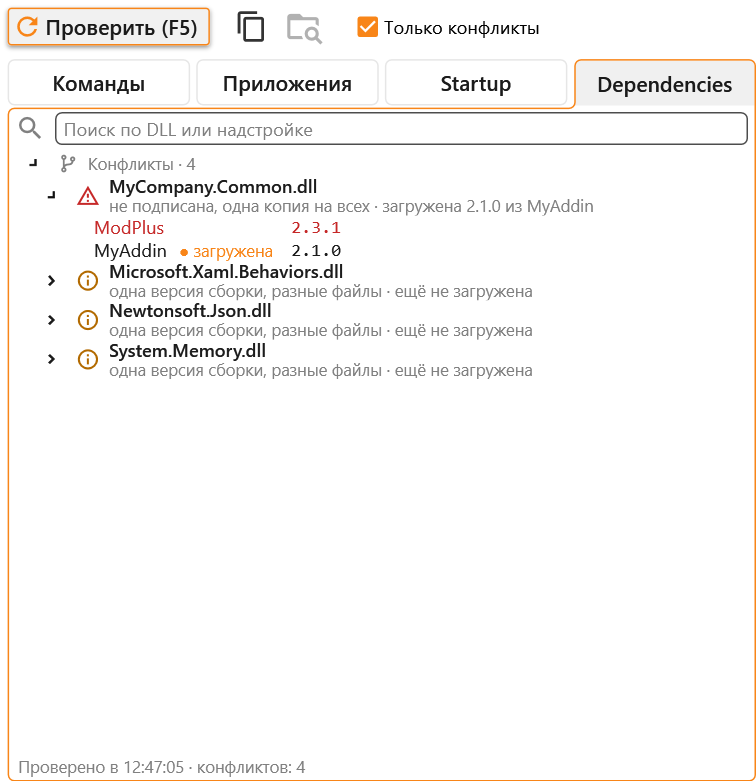
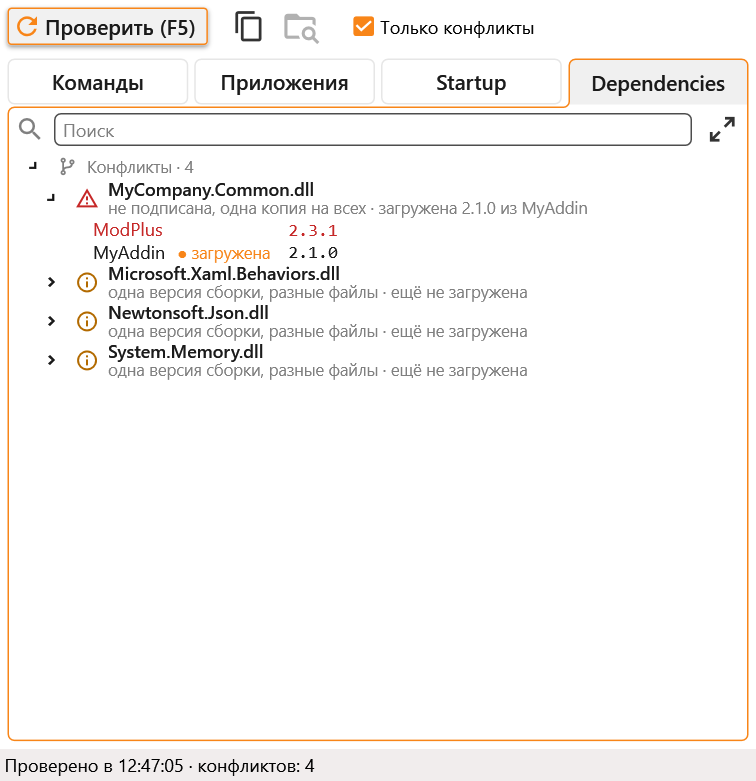
Rename DLL Runner to Add-in Explorer; Dependencies polish
The window does more than run DLLs now, so its ribbon button, tooltip,
title, the Run Again message and both READMEs call it Add-in Explorer.
The button's internal name comes from its command class, so shortcuts
users gave it still work.

Dependencies: a DLL's icon shows its worst add-in now, red only when one
gets an older version this session. The tab has a Свернуть всё button
and a plain «Поиск» hint, and a status bar like the Script Editor's: the
check on the left, short notes such as «Отчёт скопирован» on the right
for a few seconds. Opening the tab with a click no longer puts the focus
in the search box; the tree comes first in focus order, on Команды too.

diff --git a/source/UI/DllRunner/AssemblyRunnerWindow.xaml b/source/UI/DllRunner/AssemblyRunnerWindow.xaml
@@ -7,7 +7,7 @@
         xmlns:local="clr-namespace:RevitDevKit.UI.DllRunner"
         d:DataContext="{d:DesignInstance local:AssemblyRunnerVM}"
         mc:Ignorable="d"
-        Title="DLL Runner" WindowStartupLocation="CenterScreen"
+        Title="Add-in Explorer" WindowStartupLocation="CenterScreen"
         Height="720" Width="520" MinHeight="320" MinWidth="520">
 
     <Window.Resources>
@@ -228,12 +228,25 @@
                       ToolTip="Снимите, чтобы видеть и подписанные DLL, которые загрузятся рядом, и одинаковые у нескольких надстроек"/>
         </StackPanel>
 
+        <!-- Dependencies' status bar, as the Script Editor has one: the check on the left, the last action on the right. -->
+        <StackPanel DockPanel.Dock="Bottom" Style="{StaticResource DependenciesToolbar}">
+            <StatusBar>
+                <StatusBarItem DockPanel.Dock="Right">
+                    <TextBlock Text="{Binding Dependencies.Notice}"/>
+                </StatusBarItem>
+                <StatusBarItem>
+                    <TextBlock Text="{Binding Dependencies.Status}"/>
+                </StatusBarItem>
+            </StatusBar>
+        </StackPanel>
+
         <TabControl Margin="5 0 5 5" Style="{StaticResource FramedTabControl}" SelectedIndex="{Binding SelectedTabIndex}">
             <TabItem Header="Команды" Style="{StaticResource FramedTabItem}" HeaderTemplate="{StaticResource TabHeader}">
-                    <DockPanel>
+                    <!-- The tree comes first in focus order, as on Dependencies: a click on the tab does not land in the search box. -->
+                    <DockPanel KeyboardNavigation.TabNavigation="Local">
                         <DockPanel DockPanel.Dock="Top" Margin="4 2">
                             <Button DockPanel.Dock="Right" Width="25" Height="25" Margin="8 0 0 0" Padding="0" Command="{Binding CollapseAllCommand}"
-                                    Style="{StaticResource MaterialDesignFlatButton}" ToolTip="Свернуть всё">
+                                    Style="{StaticResource MaterialDesignFlatButton}" ToolTip="Свернуть всё" TabIndex="2">
                                 <materialDesign:PackIcon Kind="ArrowExpand" Width="22" Height="22" Foreground="{StaticResource IconBrush}"/>
                             </Button>
 
@@ -241,12 +254,12 @@
                                                      VerticalAlignment="Center" Margin="0 0 6 0"/>
 
                             <TextBox Text="{Binding SearchText, UpdateSourceTrigger=PropertyChanged}" VerticalAlignment="Center" Padding="5 2"
-                                     materialDesign:HintAssist.Hint="Поиск" Style="{StaticResource MaterialDesignOutlinedTextBox}"
+                                     materialDesign:HintAssist.Hint="Поиск" Style="{StaticResource MaterialDesignOutlinedTextBox}" TabIndex="1"
                                      materialDesign:TextFieldAssist.HasClearButton="True" materialDesign:HintAssist.IsFloating="False"/>
                         </DockPanel>
 
                         <Grid>
-                            <TreeView ItemsSource="{Binding Assemblies}" Margin="2">
+                            <TreeView ItemsSource="{Binding Assemblies}" Margin="2" TabIndex="0">
                                 <TreeView.Resources>
                                     <BooleanToVisibilityConverter x:Key="BoolToVisibility"/>
 
@@ -559,19 +572,23 @@
             </TabItem>
 
             <TabItem Header="Dependencies" Style="{StaticResource FramedTabItem}" HeaderTemplate="{StaticResource TabHeader}">
-                <DockPanel>
+                <!-- The tree comes first in focus order: opening the tab with a click puts the focus here, not in the search box. -->
+                <DockPanel KeyboardNavigation.TabNavigation="Local">
                     <DockPanel DockPanel.Dock="Top" Margin="4 2">
+                        <Button DockPanel.Dock="Right" Width="25" Height="25" Margin="8 0 0 0" Padding="0" Command="{Binding Dependencies.CollapseAllCommand}"
+                                Style="{StaticResource MaterialDesignFlatButton}" ToolTip="Свернуть всё" TabIndex="2">
+                            <materialDesign:PackIcon Kind="ArrowExpand" Width="22" Height="22" Foreground="{StaticResource IconBrush}"/>
+                        </Button>
+
                         <materialDesign:PackIcon DockPanel.Dock="Left" Kind="Magnify" Width="20" Height="20" Foreground="Gray"
                                                  VerticalAlignment="Center" Margin="0 0 6 0"/>
                         <TextBox Text="{Binding Dependencies.SearchText, UpdateSourceTrigger=PropertyChanged}" VerticalAlignment="Center" Padding="5 2"
-                                 materialDesign:HintAssist.Hint="Поиск по DLL или надстройке" Style="{StaticResource MaterialDesignOutlinedTextBox}"
+                                 materialDesign:HintAssist.Hint="Поиск" Style="{StaticResource MaterialDesignOutlinedTextBox}" TabIndex="1"
                                  materialDesign:TextFieldAssist.HasClearButton="True" materialDesign:HintAssist.IsFloating="False"/>
                     </DockPanel>
 
-                    <TextBlock DockPanel.Dock="Bottom" Text="{Binding Dependencies.Status}" Style="{StaticResource RowDetails}" Margin="6 2"/>
-
                     <Grid>
-                        <TreeView ItemsSource="{Binding Dependencies.Sections}" Margin="2" Grid.IsSharedSizeScope="True">
+                        <TreeView ItemsSource="{Binding Dependencies.Sections}" Margin="2" Grid.IsSharedSizeScope="True" TabIndex="0">
                             <TreeView.Resources>
                                 <!-- Compact: a small expander (it is also the indent of each level) and no padding. -->
                                 <Style TargetType="TreeViewItem" BasedOn="{StaticResource {x:Type TreeViewItem}}">

diff --git a/source/UI/DllRunner/DependenciesVM.cs b/source/UI/DllRunner/DependenciesVM.cs
@@ -100,12 +100,14 @@ namespace RevitDevKit.UI.DllRunner
             get
             {
                 var signed = Group.Copies.All(c => c.Dll.IsSigned);
+                var versionsDiffer = Group.Copies.All(c => c.Dll.IsManaged) && Group.Copies.Select(c => c.Dll.AssemblyVersion).Distinct().Count() > 1;
+                if (!signed && versionsDiffer)
+                    return "Не подписана: Revit загружает одну копию, ту, что понадобилась первой, и её получают все надстройки.\n"
+                           + "Более новая обычно подходит, если в библиотеке только добавляли (оранжевым), более старая может не подойти (красным).\n"
+                           + "Какая копия будет первой, зависит от порядка загрузки надстроек: в другой раз старую версию может получить другая.";
+
                 switch (Group.Level)
                 {
-                    case DependencyLevel.Assembly when !signed:
-                        return "Не подписана: Revit загружает одну копию, ту, что понадобилась первой, и её получают все надстройки.\n"
-                               + "Более новая обычно подходит, если в библиотеке только добавляли (оранжевым), более старая может не подойти (красным).\n"
-                               + "Какая копия будет первой, зависит от порядка загрузки надстроек: в другой раз старую версию может получить другая.";
                     case DependencyLevel.Assembly:
                         return "Revit.exe.config перенаправляет на более старую версию, чем та, под которую собрана надстройка (красным).";
                     case DependencyLevel.FileOnly:
@@ -165,7 +167,10 @@ namespace RevitDevKit.UI.DllRunner
         [NotifyCanExecuteChangedFor(nameof(CopyReportCommand))]
         private bool _isBusy;
 
+        // The status bar: the check on the left, a short note of the last action on the right, gone after a while.
         [ObservableProperty] private string _status = "Нажмите «Проверить»";
+        [ObservableProperty] private string _notice = string.Empty;
+        private DispatcherTimer _noticeTimer;
         [ObservableProperty] private string _searchText = string.Empty;
         [ObservableProperty] private bool _onlyProblems = true;
         [ObservableProperty] private bool _isEmpty;
@@ -313,6 +318,30 @@ namespace RevitDevKit.UI.DllRunner
 
         private void Select(DependencyNodeVM node) => SelectedNode = node;
 
+        [RelayCommand]
+        private void CollapseAll()
+        {
+            foreach (var group in Sections.SelectMany(s => s.Children).OfType<VersionGroupVM>())
+                group.IsExpanded = false;
+        }
+
+        private void Notify(string text)
+        {
+            Notice = text;
+            if (_noticeTimer == null)
+            {
+                _noticeTimer = new DispatcherTimer(DispatcherPriority.Background, _dispatcher) { Interval = TimeSpan.FromSeconds(4) };
+                _noticeTimer.Tick += (s, e) =>
+                {
+                    _noticeTimer.Stop();
+                    Notice = string.Empty;
+                };
+            }
+
+            _noticeTimer.Stop();
+            _noticeTimer.Start();
+        }
+
         private bool CanCopy() => _report != null && !IsBusy;
 
         [RelayCommand(CanExecute = nameof(CanCopy))]
@@ -321,7 +350,7 @@ namespace RevitDevKit.UI.DllRunner
             try
             {
                 Clipboard.SetText(AddinDependencies.ToMarkdown(_report, OnlyProblems));
-                Status = "Отчёт скопирован";
+                Notify("Отчёт скопирован");
             }
             catch (Exception ex)
             {
@@ -340,7 +369,7 @@ namespace RevitDevKit.UI.DllRunner
             try
             {
                 Clipboard.SetText(path);
-                Status = "Путь скопирован";
+                Notify("Путь скопирован");
             }
             catch (Exception ex)
             {

diff --git a/source/Core/AddinDependencies.cs b/source/Core/AddinDependencies.cs
@@ -45,12 +45,11 @@ namespace RevitDevKit.Core
         None,
         // Signed, with different assembly versions: every add-in loads its own, side by side.
         SideBySide,
-        // An add-in gets another file of the assembly version it was built against, or Revit redirects it to a
-        // newer version: one copy is shared, usually fine.
+        // An add-in gets another file of the assembly version it was built against, a newer version of a DLL without
+        // a strong name, or a newer version Revit redirects it to: one copy is shared, usually fine.
         FileOnly,
-        // Add-ins may get another assembly version than they were built against: not signed, so the first copy loaded
-        // goes to everyone and which one that is depends on the load order; or Revit redirects one down to an older
-        // version. An add-in that gets an older one may fail.
+        // An add-in gets an older assembly version than it was built against and may fail: a DLL without a strong
+        // name whose older copy was loaded first, or one Revit redirects down.
         Assembly
     }
 
@@ -329,10 +328,12 @@ namespace RevitDevKit.Core
                         : CopyState.Fine;
                 }
 
-                group.Level = !native && copies.Select(c => c.Dll.AssemblyVersion).Distinct().Count() > 1 ? DependencyLevel.Assembly
-                    : copies.Any(c => c.State == CopyState.Differs) ? DependencyLevel.FileOnly
+                // The group is as bad as its worst copy now; that the next session may go otherwise is in the tooltip.
+                var versionsDiffer = !native && copies.Select(c => c.Dll.AssemblyVersion).Distinct().Count() > 1;
+                group.Level = copies.Any(c => c.State == CopyState.Breaks) ? DependencyLevel.Assembly
+                    : versionsDiffer || copies.Any(c => c.State == CopyState.Differs) ? DependencyLevel.FileOnly
                     : DependencyLevel.None;
-                group.Reason = group.Level == DependencyLevel.Assembly ? "не подписана, одна копия на всех"
+                group.Reason = versionsDiffer ? "не подписана, одна копия на всех"
                     : group.Level == DependencyLevel.FileOnly ? (native ? "разные версии файла" : "одна версия сборки, разные файлы")
                     : "одинаковые версии";
                 return;

diff --git a/source/App.cs b/source/App.cs
@@ -84,11 +84,13 @@ namespace RevitDevKit
                     "Весь вывод — Console.WriteLine, Debug, исключения — попадает в консоль плагина."
                 );
 
-            pullBtn.CreatePushButton<OpenAssemblyRunnerCmd, AlwaysAvailable>("DLL Runner")
-                .SetToolTip("Загрузка внешних DLL и запуск их команд.")
+            // The button's internal name comes from its command class, so renaming the text keeps users' shortcuts.
+            pullBtn.CreatePushButton<OpenAssemblyRunnerCmd, AlwaysAvailable>("Add-in Explorer")
+                .SetToolTip("Надстройки и их DLL: запуск команд, лента по свежей сборке, автозагрузка, конфликты версий.")
                 .SetLongDescription(
-                    "Подключите собранную DLL и запустите из неё IExternalCommand. " +
-                    "Команда берётся из актуальной DLL на диске: после пересборки достаточно запустить её снова."
+                    "Подключите собранную DLL и запустите из неё IExternalCommand: команда берётся из актуальной DLL на диске. " +
+                    "Здесь же видно, как изменится лента надстройки, какие надстройки Revit загружает при запуске " +
+                    "и какие DLL у них расходятся по версиям."
                 );
 
             pullBtn.CreatePushButton<ExecutePendingCmd, AlwaysAvailable>("Run Again")
@@ -98,7 +100,7 @@ namespace RevitDevKit
                 .SetToolTip("Показать панель с консолью плагина.");
         }
 
-        // The folders Revit loads .addin files from, for the Startup tab of DLL Runner.
+        // The folders Revit loads .addin files from, for the Startup and Dependencies tabs of Add-in Explorer.
         private static void LocateAddinFolders(UIControlledApplication application)
         {
             var revit = application.ControlledApplication;

diff --git a/source/Commands/ExecutePendingCmd.cs b/source/Commands/ExecutePendingCmd.cs
@@ -36,7 +36,7 @@ namespace RevitDevKit.Commands
             if (request == null)
             {
                 TaskDialog.Show("DevKit",
-                    "Нечего повторять. Запустите скрипт в Script Editor или команду в DLL Runner хотя бы один раз.");
+                    "Нечего повторять. Запустите скрипт в Script Editor или команду в Add-in Explorer хотя бы один раз.");
                 return Result.Cancelled;
             }
 

diff --git a/README.md b/README.md
@@ -7,14 +7,14 @@
 [![README на русском](https://img.shields.io/badge/README-%D0%BD%D0%B0%20%D1%80%D1%83%D1%81%D1%81%D0%BA%D0%BE%D0%BC-blue)](README.ru.md)
 [![Release](https://img.shields.io/github/v/release/Samveyil/RevitDevKit?label=Release&color=blue)](https://github.com/Samveyil/RevitDevKit/releases/latest)
 
-A Revit 2019–2024 add-in that helps while developing plugins. It has a C# script editor, runs commands from a DLL without restarting Revit, updates ribbon buttons from a new build and has a console for output.
+A Revit 2019–2024 add-in that helps while developing plugins. It has a C# script editor, runs commands from a DLL without restarting Revit, updates ribbon buttons from a new build, turns add-ins on and off, finds DLLs that add-ins bring in clashing versions, and has a console for output.
 
 The add-in's interface is in Russian; the names of its menus and buttons are given below with a translation.
 
 The Add-Ins tab gets a DevKit panel with a pulldown button:
 
 - Script Editor opens the script editor;
-- DLL Runner opens a window with the commands and applications of a DLL, the add-ins Revit loads at startup and their DLLs;
+- Add-in Explorer opens a window with the commands and applications of a DLL, the add-ins Revit loads at startup and their DLLs;
 - Run Again repeats the last run;
 - Console shows the console pane.
 
@@ -74,19 +74,19 @@ Tx("Mark walls", () =>
 
 In the output of `Compare`, `-нет-` (none) means the element has no such parameter, `-` means the parameter has no value, and `-пусто-` (empty) means an empty string.
 
-## DLL Runner
+## Add-in Explorer
 
 ### Commands
 
-<img src="assets/dll-runner-commands.png" width="520" alt="DLL Runner, the Commands tab" />
+<img src="assets/dll-runner-commands.png" width="520" alt="Add-in Explorer, the Commands tab" />
 
 Add a built DLL, and its `IExternalCommand` classes appear in the list, grouped by namespace. A double click or F5 runs a command. The DLL file is not locked, so the project can be rebuilt without closing Revit. The command is taken from the DLL on disk every time, so after a build just run it again. The **Обновить** (Refresh) button is needed only when new commands appear.
 
-The window closes when a command runs. To run the same command again after changes, there is no need to open DLL Runner: build the project and press Run Again on the ribbon, and the command runs from the fresh DLL. Run Again can be given a keyboard shortcut in Revit.
+The window closes when a command runs. To run the same command again after changes, there is no need to open Add-in Explorer: build the project and press Run Again on the ribbon, and the command runs from the fresh DLL. Run Again can be given a keyboard shortcut in Revit.
 
 ### Applications
 
-<img src="assets/dll-runner-apps.png" width="520" alt="DLL Runner, the Applications tab" />
+<img src="assets/dll-runner-apps.png" width="520" alt="Add-in Explorer, the Applications tab" />
 
 Here you can see what an add-in's buttons will look like after changes, without restarting Revit. The add-in is installed as usual with an `.addin` file, and the DLL from the project's build folder is added here. After changes, build the project and press **Обновить** (Refresh): the add-in's buttons on the ribbon change their texts, tooltips, icons and `ShowText`. New buttons and panels appear, removed ones disappear, and a button that became a pulldown is replaced in the same place.
 
@@ -96,7 +96,7 @@ The DLL may have a different name than the installed one, for example `Dbg_MyAdd
 
 ### Startup
 
-<img src="assets/dll-runner-startup.png" width="520" alt="DLL Runner, the Startup tab" />
+<img src="assets/dll-runner-startup.png" width="520" alt="Add-in Explorer, the Startup tab" />
 
 This tab lists the `.addin` files of the running Revit version: the current user's from `%AppData%\Autodesk\Revit\Addins\<year>` and those for all users from `%ProgramData%\Autodesk\Revit\Addins\<year>`. Clearing a checkbox renames `X.addin` to `X.addin.disable`, so Revit does not load the add-in on its next start, and ticking it renames the file back.
 
@@ -104,11 +104,11 @@ Under each name is what the file contains and its DLL, and in red what is wrong:
 
 ### Dependencies
 
-<img src="assets/dll-runner-dependencies.png" width="520" alt="DLL Runner, the Dependencies tab" />
+<img src="assets/dll-runner-dependencies.png" width="520" alt="Add-in Explorer, the Dependencies tab" />
 
 This tab finds DLLs that several add-ins of the running Revit version, or an add-in and Revit itself, bring in different versions, and shows which of them really clash in the one Revit process they all share:
 
-- **Red**: an add-in gets an older assembly version than it was built against, and may fail. That happens to a DLL without a strong name, where the first copy loaded goes to everyone, and to one that `Revit.exe.config` redirects down to Revit's version. A DLL without a strong name in different versions is a conflict as a whole: which copy loads first depends on the order the add-ins load, so next time another add-in may get the older one.
+- **Red**: an add-in gets an older assembly version than it was built against, and may fail. That happens to a DLL without a strong name, where the first copy loaded goes to everyone, and to one that `Revit.exe.config` redirects down to Revit's version. A DLL without a strong name in different versions is always listed among the conflicts, orange when nobody gets an older one now: which copy loads first depends on the order the add-ins load, so next time another add-in may get the older one.
 - **Orange**: an add-in gets a newer version (fine if the library only added things), another file of the same assembly version, or a newer version Revit redirects it to. One copy is shared, which is usually harmless.
 - With **Только конфликты** (conflicts only) cleared, signed DLLs of different versions show too: .NET loads each add-in its own version, side by side. Revit's redirects count only for the versions their `oldVersion` names.
 
